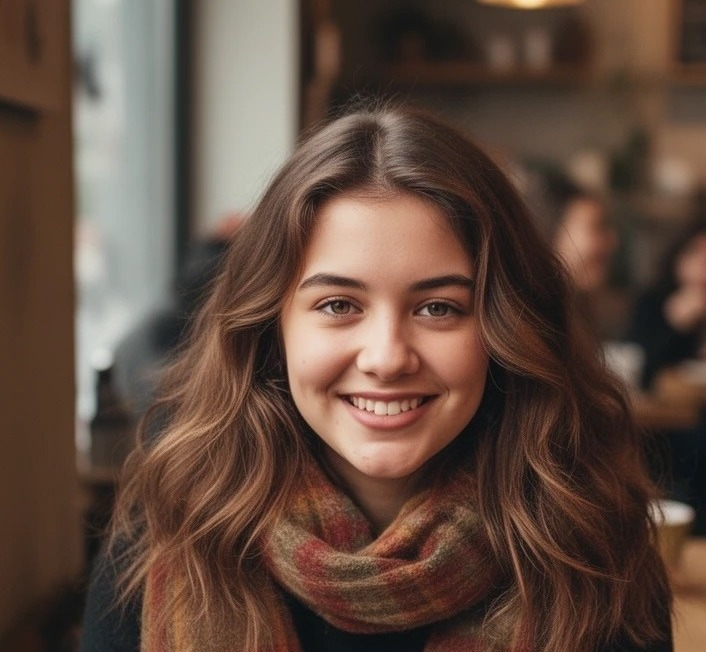
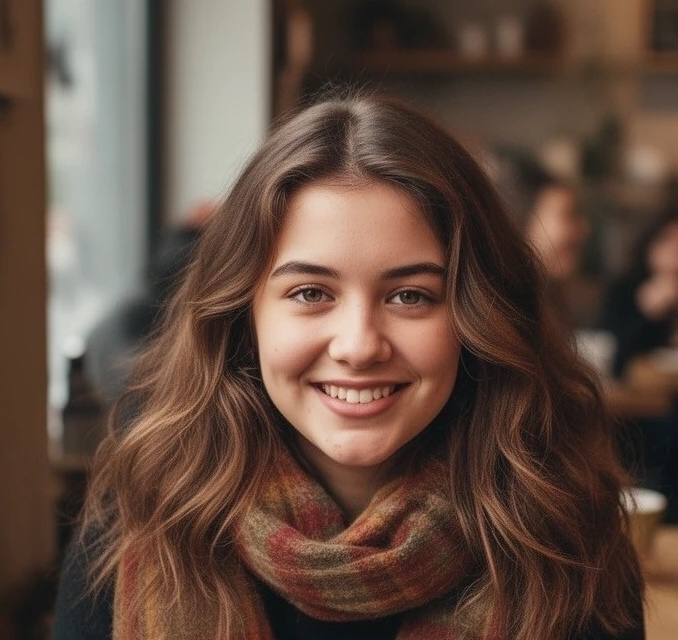
Beat 2 haptics sync to number ticks; recrop 2024 portrait
- Replace setInterval haptics with RAF-synchronous firing — haptic
  fires exactly when the displayed number increments, so rapid cascade
  at start slows to individual taps at the end
- Swap easeInOutCubic for easeOutExpo on both count-ups; extend
  durations (stat 1600→2800ms, impact 1000→1800ms)
- Recrop timeline_2024.jpg: 28px from left + 12px from top to center
  face horizontally and nudge slightly higher

diff --git a/aihunter-app/features/onboarding/ThesisScreen.js b/aihunter-app/features/onboarding/ThesisScreen.js
@@ -37,8 +37,9 @@ const YEARS = [
   { year: '2027', sub: 'What comes next?', isQuestion: true },
 ];
 
-function easeInOutCubic(t) {
-  return t < 0.5 ? 4 * t * t * t : 1 - Math.pow(-2 * t + 2, 3) / 2;
+// Rushes through early values, then decelerates dramatically near the target
+function easeOutExpo(t) {
+  return t === 1 ? 1 : 1 - Math.pow(2, -10 * t);
 }
 
 async function markSeen() {
@@ -388,8 +389,6 @@ function Beat2({ onNext }) {
   const scaleAnim   = useRef(new Animated.Value(0.78)).current;
   const alphaAnim   = useRef(new Animated.Value(0)).current;
   const circleAlpha = useRef(new Animated.Value(0)).current;
-  const hapticTimer = useRef(null);
-  const impactTimer = useRef(null);
 
   // Phase 0 exit
   const phase0Y     = useRef(new Animated.Value(0)).current;
@@ -404,62 +403,69 @@ function Beat2({ onNext }) {
       Animated.timing(scaleAnim, { toValue: 1, duration: 420, easing: Easing.out(Easing.cubic), useNativeDriver: true }),
       Animated.timing(alphaAnim, { toValue: 1, duration: 420, easing: Easing.out(Easing.ease),  useNativeDriver: true }),
     ]).start(() => setTimeout(startStatCountUp, 250));
-    return () => {
-      clearInterval(hapticTimer.current);
-      clearInterval(impactTimer.current);
-    };
+    return () => {};
   }, []);
 
   function startStatCountUp() {
-    const duration  = 1600;
+    const duration  = 2800;
     const startTime = Date.now();
-    hapticTimer.current = setInterval(() => medium(), 90);
+    let lastVal = -1;
 
     const tick = () => {
       const elapsed  = Date.now() - startTime;
       const progress = Math.min(elapsed / duration, 1);
-      setStatNum(Math.round(easeInOutCubic(progress) * STAT_TARGET));
+      const val = Math.round(easeOutExpo(progress) * STAT_TARGET);
+
+      if (val !== lastVal) {
+        lastVal = val;
+        setStatNum(val);
+        if (progress < 1) medium();
+      }
 
       if (progress < 1) {
         requestAnimationFrame(tick);
       } else {
-        clearInterval(hapticTimer.current);
         setStatNum(STAT_TARGET);
         heavy();
         setTimeout(() => {
           Animated.timing(circleAlpha, {
             toValue: 1, duration: 360, easing: Easing.out(Easing.ease), useNativeDriver: true,
           }).start();
-        }, 600);
+        }, 800);
       }
     };
     requestAnimationFrame(tick);
   }
 
   function startImpactCountUp(targetPhase) {
-    const cfg      = PHASE_CONFIG[targetPhase];
-    const duration = 1000;
+    const cfg       = PHASE_CONFIG[targetPhase];
+    const duration  = 1800;
     const startTime = Date.now();
     setImpactVal(0);
-    impactTimer.current = setInterval(() => light(), 65);
+    let lastDisplayed = null;
 
     const tick = () => {
       const elapsed  = Date.now() - startTime;
       const progress = Math.min(elapsed / duration, 1);
-      const val = easeInOutCubic(progress) * cfg.target;
-      setImpactVal(cfg.isDecimal ? val : Math.round(val));
+      const raw = easeOutExpo(progress) * cfg.target;
+      const display = cfg.isDecimal ? parseFloat(raw.toFixed(2)) : Math.round(raw);
+
+      if (display !== lastDisplayed) {
+        lastDisplayed = display;
+        setImpactVal(display);
+        if (progress < 1) light();
+      }
 
       if (progress < 1) {
         requestAnimationFrame(tick);
       } else {
-        clearInterval(impactTimer.current);
         setImpactVal(cfg.target);
         heavy();
         setTimeout(() => {
           Animated.timing(circleAlpha, {
             toValue: 1, duration: 360, easing: Easing.out(Easing.ease), useNativeDriver: true,
           }).start();
-        }, 600);
+        }, 800);
       }
     };
     requestAnimationFrame(tick);
@@ -467,7 +473,6 @@ function Beat2({ onNext }) {
 
   function advancePhase() {
     medium();
-    clearInterval(impactTimer.current);
     const isLast = phase === 3;
 
     Animated.timing(circleAlpha, {
